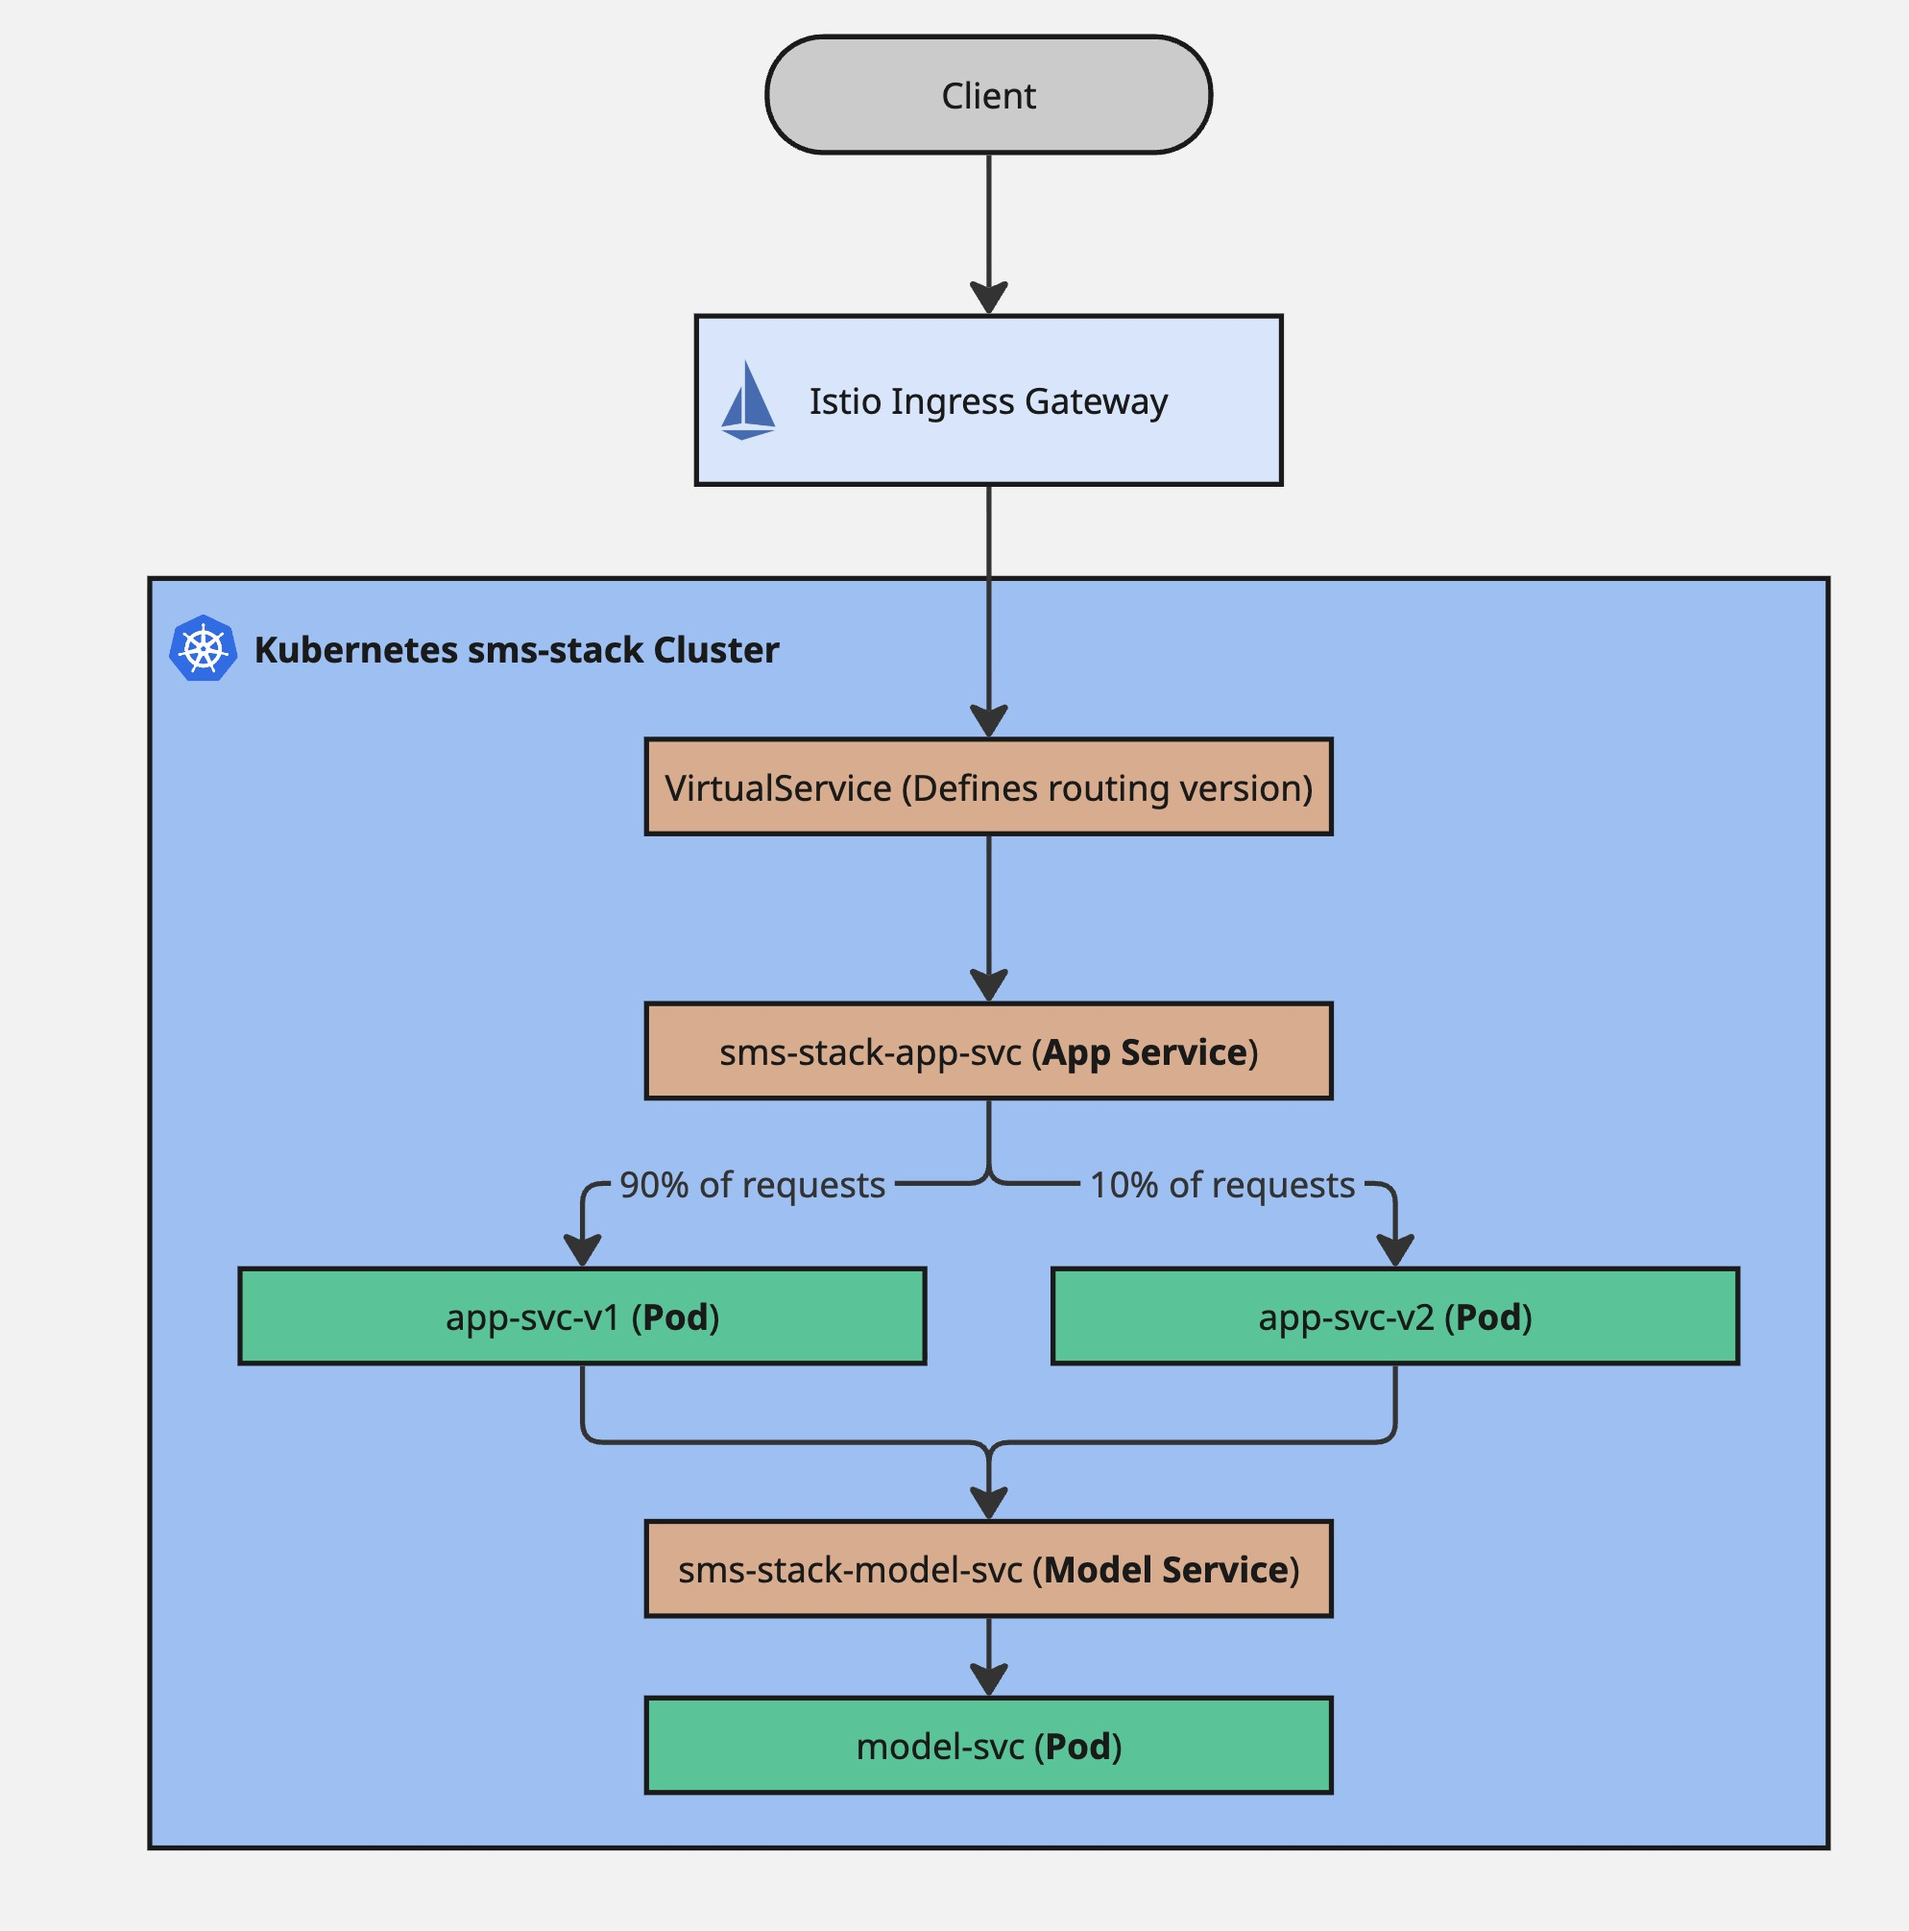
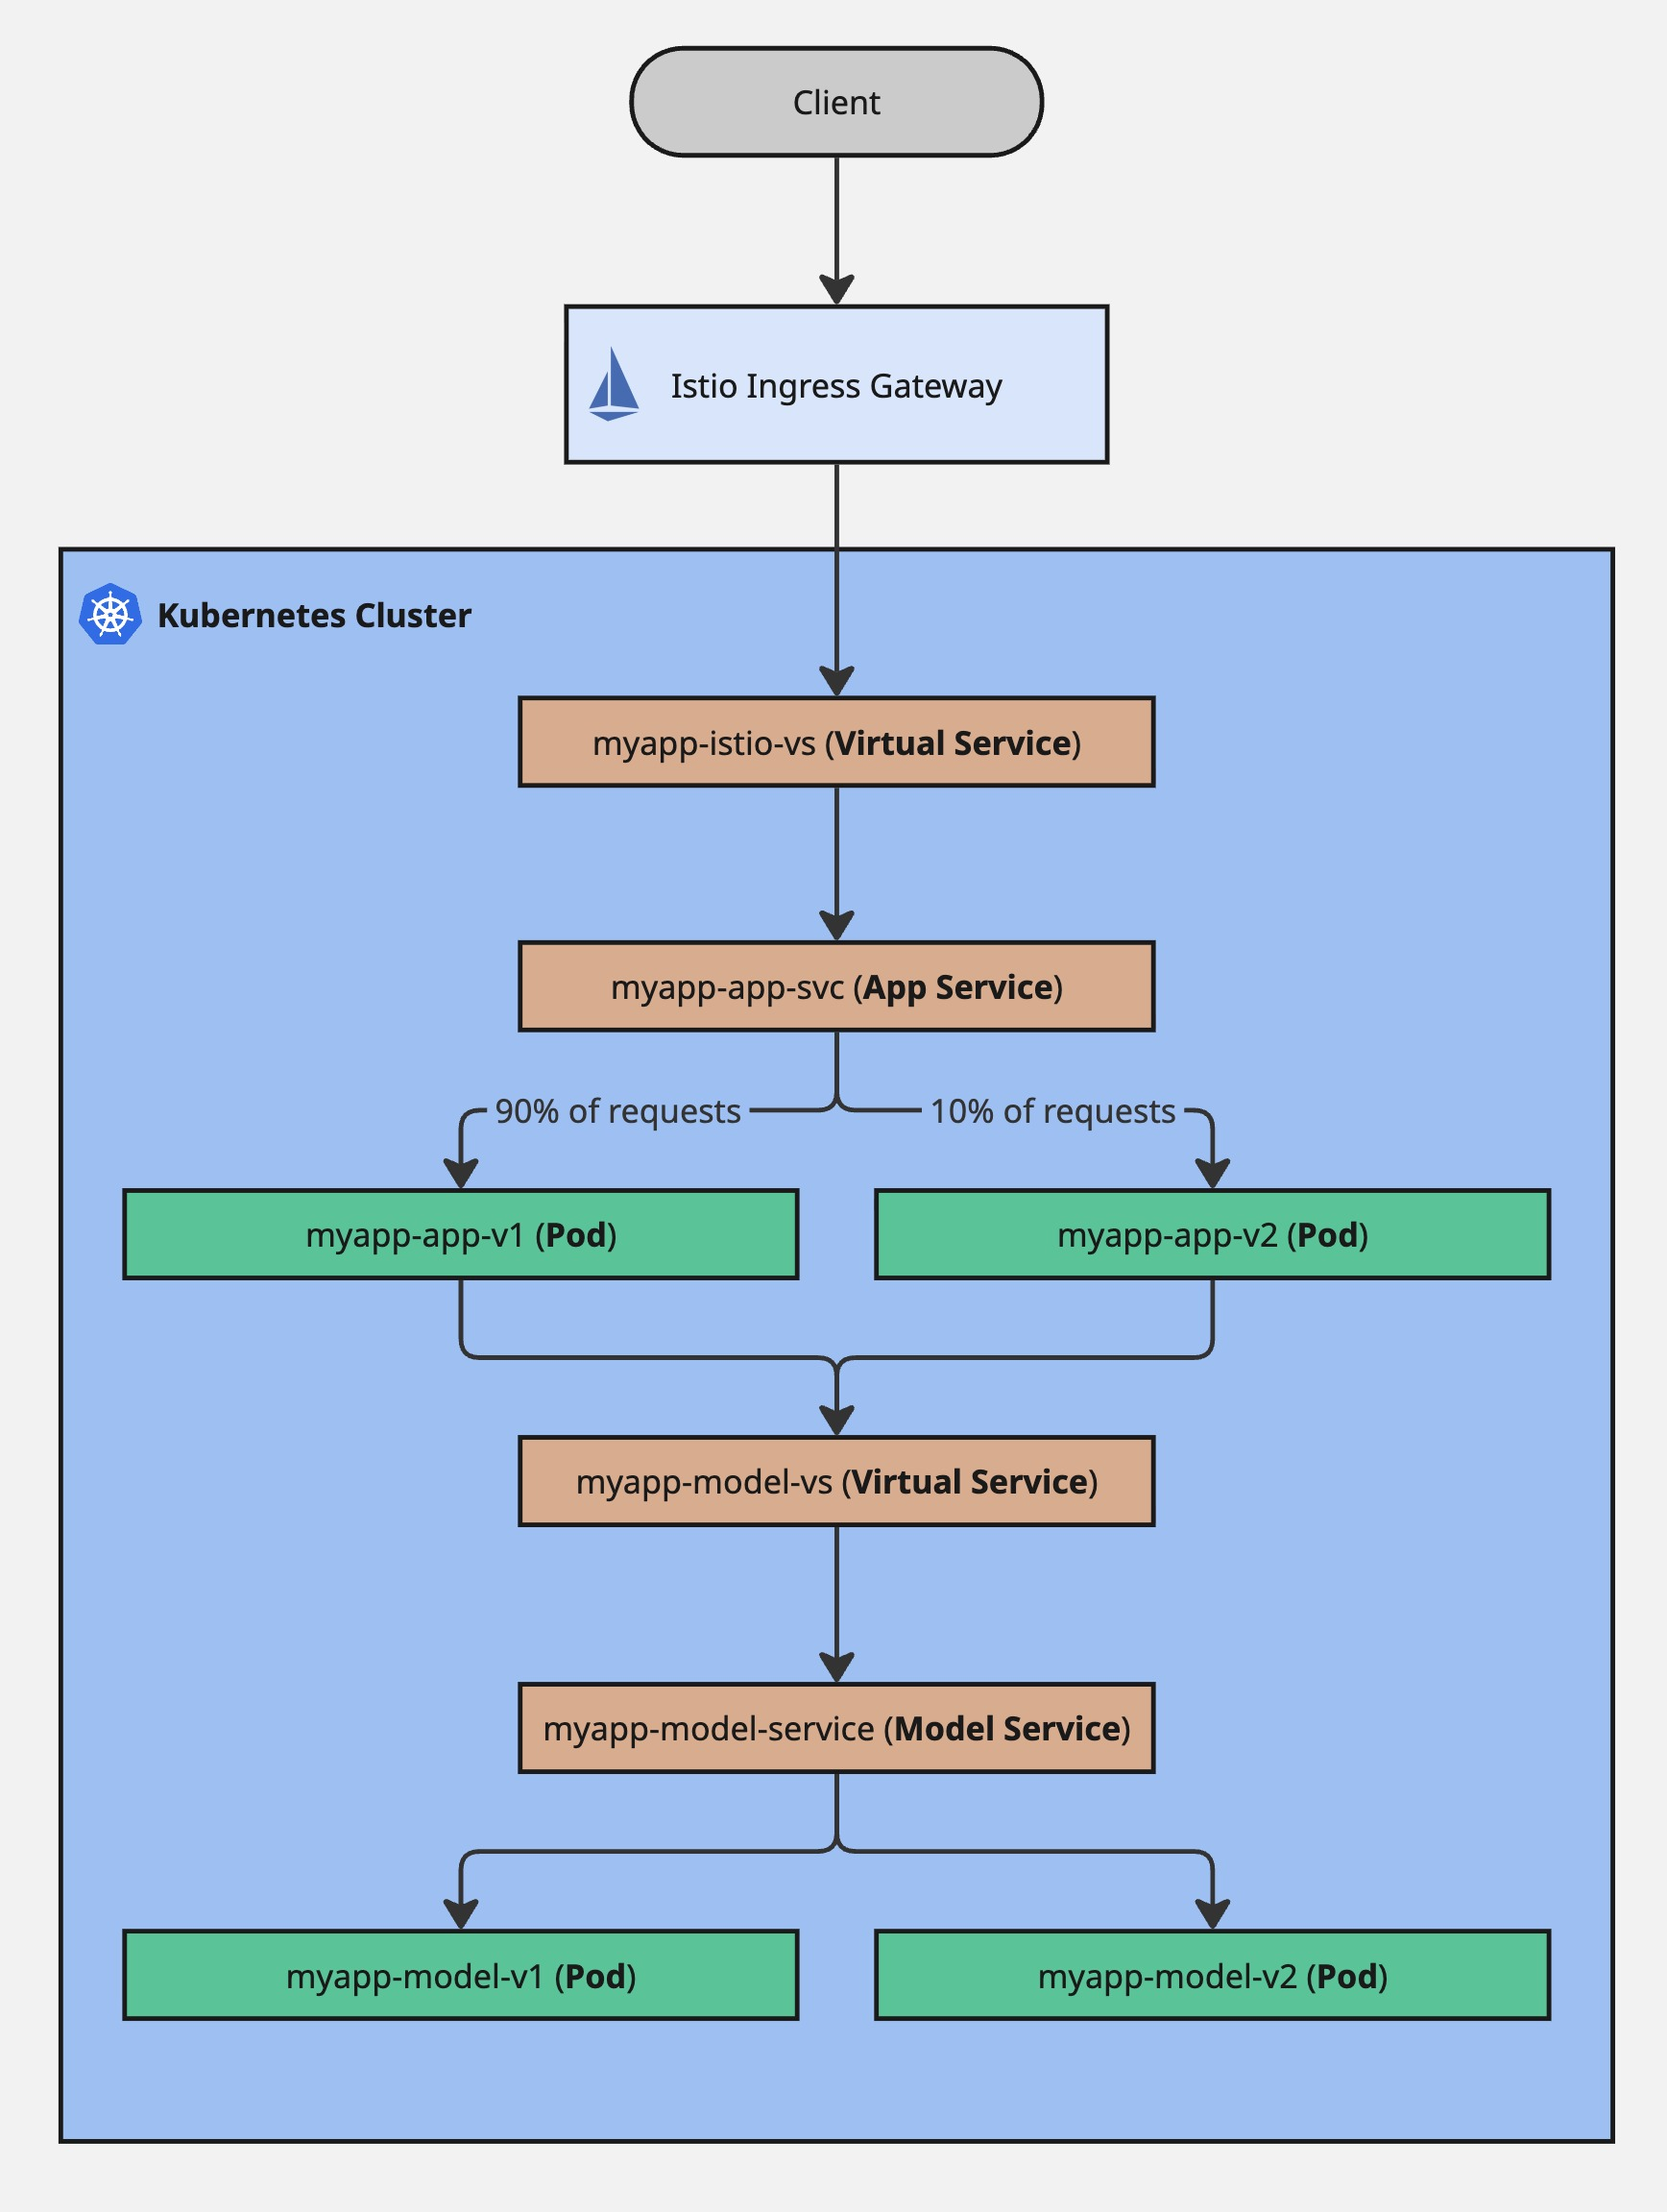
Updated request flow based on traffic management work. Updated sections on grafana

diff --git a/docs/deployment.md b/docs/deployment.md
@@ -6,7 +6,7 @@ In this document, we outline the deployment structure of the SMS Checker applica
 
 Generally, the architecture is split into two distinct services: , which facilitates independent scaling and deployment. Configuration is centralised using a single Helm chart.
 
-In the latter stages of the assignments, the deployment focuses on observability and experimentation, featuring a monitoring stack and a canary release strategy managed via Istio VirtualServices. Note that these features have not yet been fully implmented, and are therefore not yet described in detail in this document.
+In the latter stages of the assignments, the deployment focuses on observability and experimentation, featuring a monitoring stack and a canary release strategy managed via Istio VirtualServices.
 
 ## 2. Access & Connectivity
 
@@ -16,53 +16,56 @@ The application is exposed through an Istio Ingress Gateway. Below are the entry
 | :---------------------------------- | :------------------------------------ | :------------------------------------------------------------------------------------------------------------------------------------------------------- |
 | **Web Application (Stable)**  | `https://myapp.example.com`         | The main user interface for the SMS Checker.                                                                                                             |
 | **Web Application (Preview)** | `https://preview.myapp.example.com` | Direct access to the experimental version of the SMS Checker.                                                                                            |
-| **Grafana Dashboard**         | `https://localhost:3000`            | Visualisation of app metrics and experiment data.<br />*Note that Grafana support has not yet been fully <br />implemented and is currently disabled.* |
+| **Grafana Dashboard**         | `https://localhost:3000`            | Visualisation of app metrics and experiment data. |
 | **Prometheus**                | `https://localhost:9090`            | Metric collection and querying.                                                                                                                          |
 
 > **Note:** Accessing `myapp.example.com` requires these entries to be present in the `/etc/hosts` file on your local machine, mapping them to the LoadBalancer IP of the cluster (e.g., `192.168.56.100`). For local testing, the main app service can simply be accessed at `https://localhost:8080`.
 
 ## 3. Deployment Structure
 
-The application is deployed using a single, unified Helm chart (`sms-stack`) which manages all workloads, services, and the monitoring stack.
+The application is deployed using a single, unified Helm chart (`myapp`) which manages all workloads, services, and the monitoring stack.
 
 ### **Core Workloads**
 
 The system is composed of two primary microservices, communicating internally:
 
-1. **App Service (`sms-stack-app-service`):**
+1. **App Service (`myapp-app-svc`):**
 
    * **Function:** Serves the frontend and acts as the API gateway.
-   * **Replicas:** 2 replicas for high availability.
-   * **Connectivity:** Communicates with the Model Service via its internal Kubernetes DNS name (`sms-stack-model-service`) on port 8081.
+   * **Replicas:** 2 replicas for versioning, randomly determined by an Istio VirtualService with a default 90-10% split.
+   * **Connectivity:** Communicates with the Model Service via its internal Kubernetes DNS name (`myapp-model-service`) on port 8081.
    * **Storage:** Mounts the shared volume (`/mnt/storage`) for shared data or configuration.
-2. **Model Service (`sms-stack-model-service`):**
+2. **Model Service (`myapp-model-service`):**
 
    * **Function:** Houses the ML model logic.
-   * **Replicas:** 1 replica.
+   * **Replicas:** 2 replicas for versioning.
    * **Exposure:** Accessed internally via a ClusterIP Service on target port 8081.
 
 ### **Observability Stack**
 
 * **Prometheus:** Deployed internally, configured to scrape metrics from the App service.
   * **Scrape Configuration:** The `ServiceMonitor` targets the app pods on the path `/sms/metrics` every **5 seconds**.
-* **Grafana:** Currently **disabled** (`enabled: false`), but the definition is ready for future activation.
+* **Grafana:** Enables collected app and model metrics to be visualised with the provided dashboards.
 
 ## 4. Request Flow & Traffic Management
 
-### **Path of a Typical Request**
+### Path of a Typical Request
 
 1. **Client Entry:** A user request is sent to `https://myapp.example.com`.
 2. **Istio Gateway:** The request enters the Istio Ingress Gateway.
-3. **VirtualService Routing:** The VirtualService intercepts the request and applies the canary release rules.
-4. **Canary Split:** The request is routed to either the V1 (`stable`) or V2 (`preview`) subset of the App Service Deployment based on weight.
-5. **Service Call:** The App Service calls the Model Service internally.
-6. **Response:** The prediction is returned to the App Service, which then returns the final response to the user.
+3. **Ingress VirtualService Routing:** The gateway-facing VirtualService (`myapp-istio-vs`) intercepts the request.
+4. **App Service Selection (Canary Logic):** The request is routed to either the V1 (stable) or V2 (preview) subset of the App Service Deployment based on weight. This random selection can be bypassed by using the `canary: enabled` header to select the preview version.
+5. **Internal Model Service Call:** The App Service calls the Model Service (`myapp-model-service`).
+6. **Model VirtualService Routing:** The `myapp-model-vs` VirtualService applies routing rules:
+   - Requests with label `version: v2` are routed to the V2 subset (`preview`) of the Model Service, which has been modified to always predict spam for any given message.
+   - All other requests are routed to the V1 subset (`stable`) of the Model Service, which runs the normal prediction pipeline.
+7. **Response:** The Model Service returns the prediction to the App Service, which then returns the final response to the user.
 
 This flow is illustrated in the figure below.
 
 ![Figure 1. Typical data flow](images/dataflow.jpg "Figure 1. Typical data flow")
 
-To monitor our application internally, we implement a monitoring stack with Prometheus and Grafana. While client requests travel through the Istio Ingress Gateway to the app-service and model-service pods, Prometheus continuously scrapes metrics from the app-service `/sms/metrics `endpoint, as well as from supporting sources like kube-state-metrics and node-exporter. Although the latter are not used in our dashboards, they can provide information on pod status and node-level metrics such as CPU usage. On the other hand, the app-service metrics are processed and visualised in Grafana, providing a real-time view of application latency as well as aggregated insights into the predictions made by the machine learning model. The Alertmanager listens for critical thresholds, providing notifications for incidents or unusual results.
+To monitor our application internally, we implement a monitoring stack with Prometheus and Grafana. While client requests travel through the Istio Ingress Gateway to the app-service and model-service pods, Prometheus continuously scrapes metrics from the app-service `/sms/metrics` endpoint, as well as from supporting sources like kube-state-metrics and node-exporter. Although the latter are not used in our dashboards, they can provide information on pod status and node-level metrics such as CPU usage. On the other hand, the app-service metrics are processed and visualised in Grafana, providing a real-time view of application latency as well as aggregated insights into the predictions made by the machine learning model. The Alertmanager listens for critical thresholds, providing notifications for incidents or unusual results.
 
 ![Figure 2. Typical data flow](images/monitoring_stack.jpg "Figure 2. Typical data flow")
 
